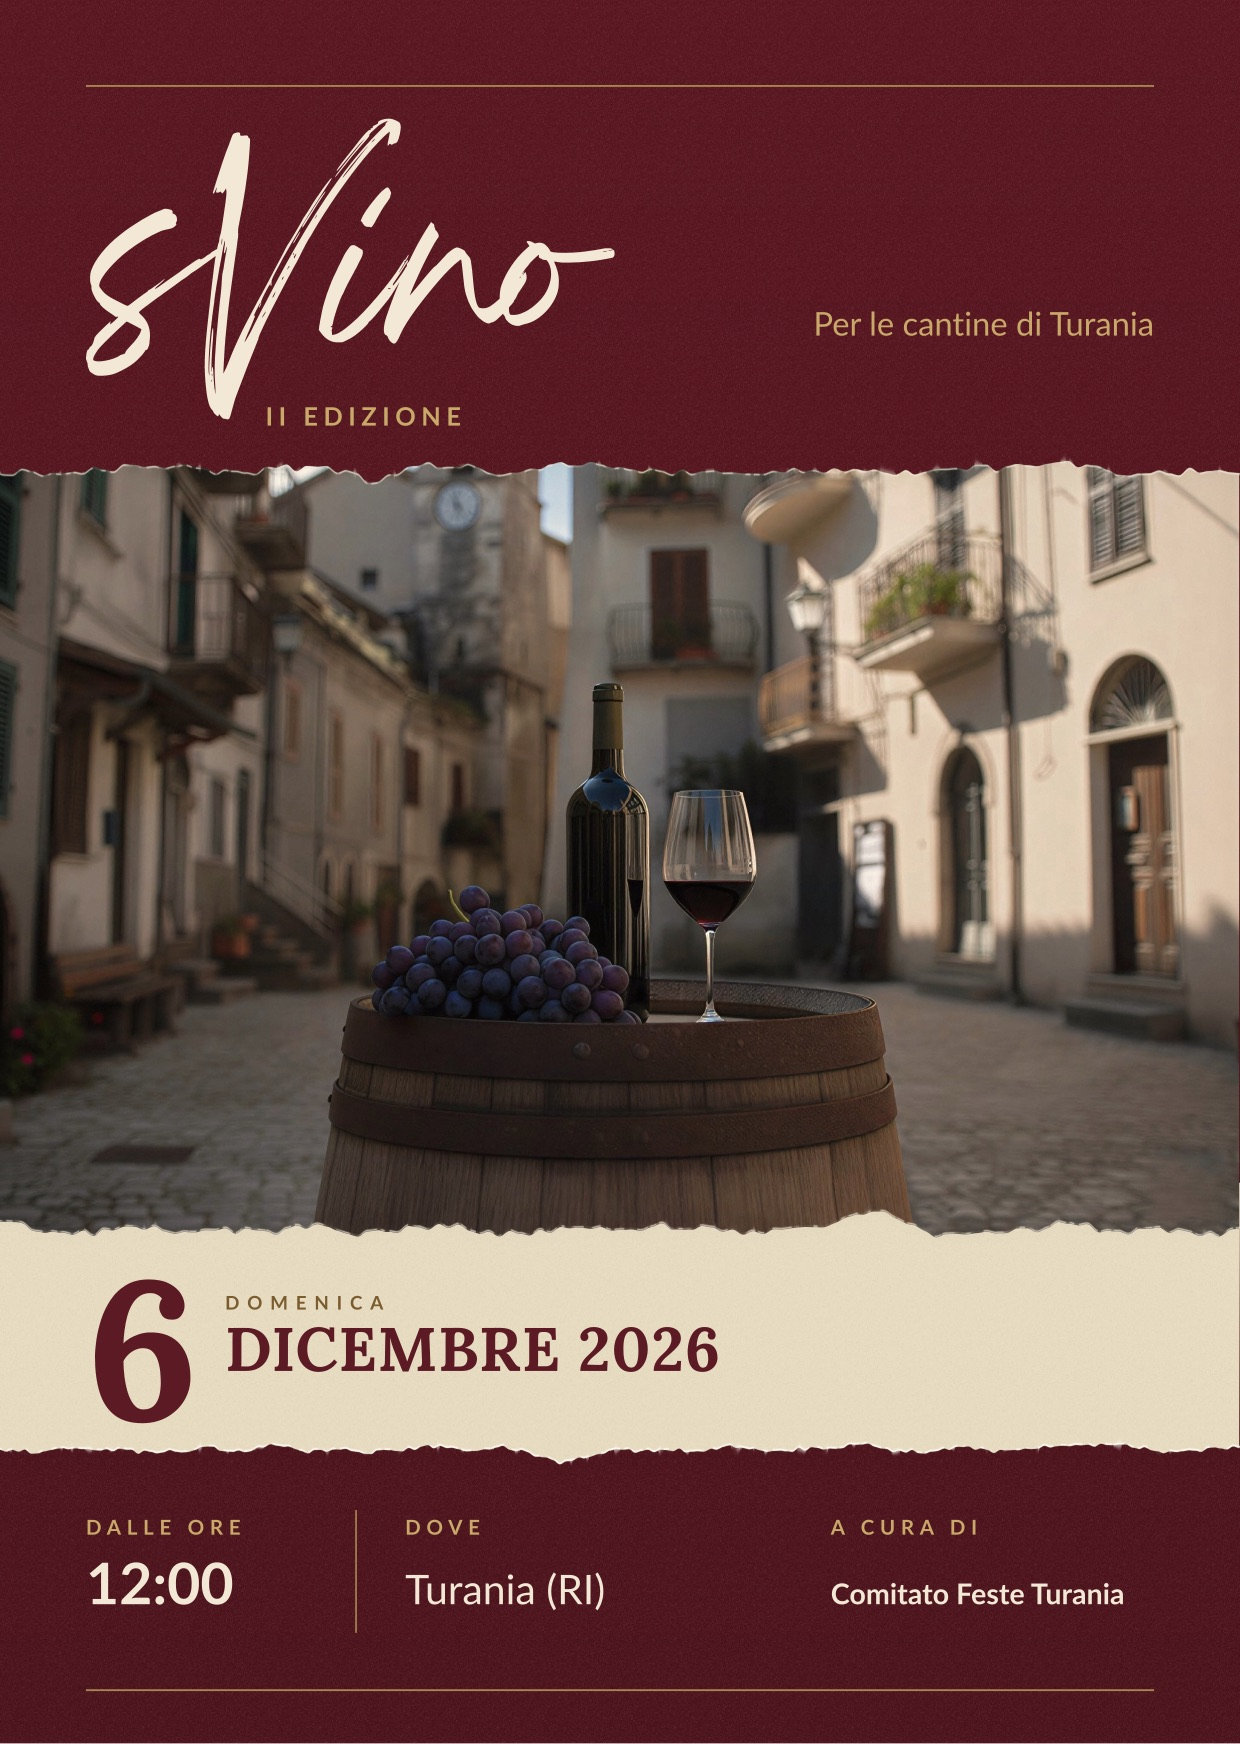
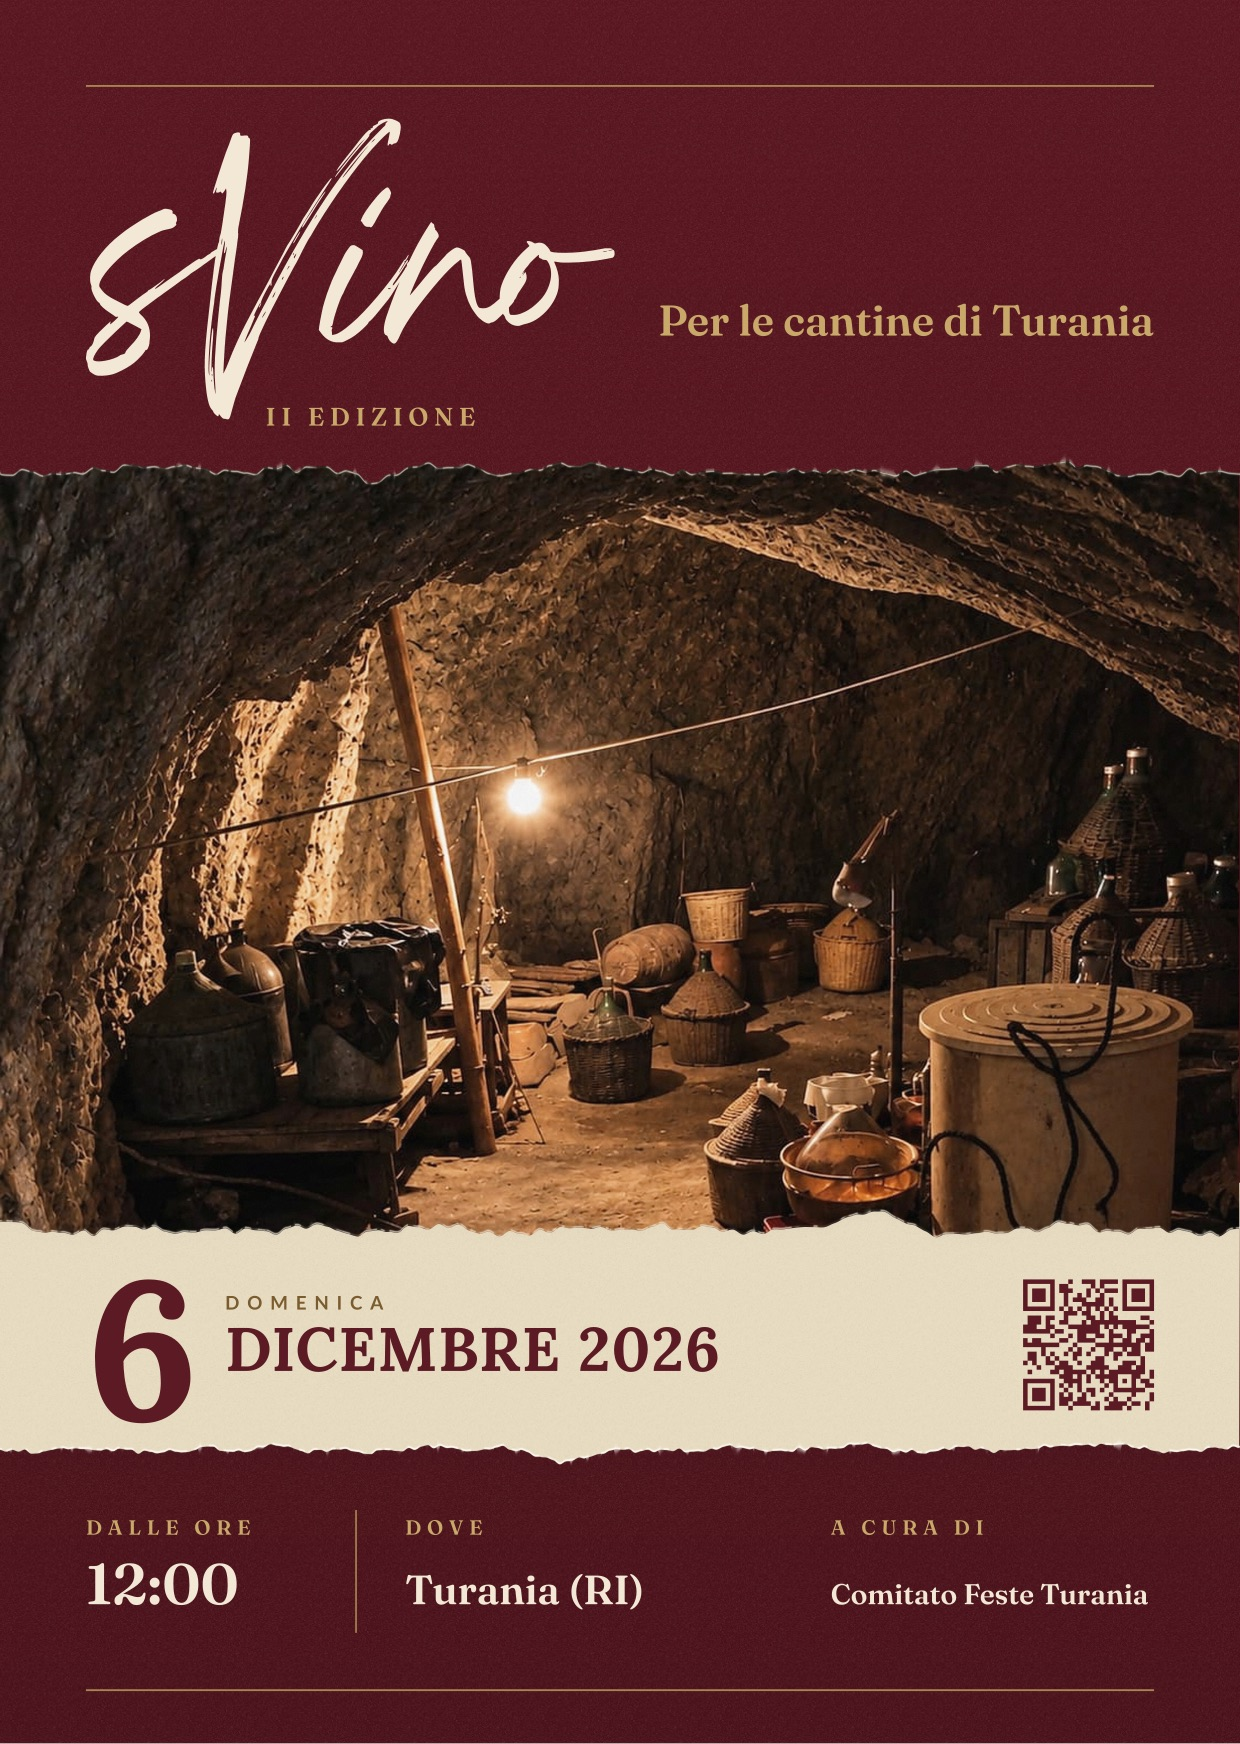
content: bring the page onto the v15 Locandina
Replace the borgo still life with the cantina photograph the v15 print
master carries: regenerate the four derivatives from the 2244 × 1415
crop, rename them svino-cantina-*, and update the approved alt sentence.

Refresh the square social preview and the downloadable Locandina from the
same v15 sources; the download now carries the QR, as the print does.
Document the v15 master, the exact resize sizes and both recipes.

diff --git a/index.html b/index.html
@@ -110,17 +110,17 @@
             <div class="photo-frame">
               <picture>
               <source
-                srcset="/assets/img/svino-borgo-1200.webp 1200w, /assets/img/svino-borgo-2048.webp 2048w"
+                srcset="/assets/img/svino-cantina-1200.webp 1200w, /assets/img/svino-cantina-2048.webp 2048w"
                 sizes="(min-width: 46rem) 39.5rem, calc(100vw - 4.5rem)"
                 type="image/webp"
               >
               <img
-                src="/assets/img/svino-borgo-1200.jpg"
-                srcset="/assets/img/svino-borgo-1200.jpg 1200w, /assets/img/svino-borgo-2048.jpg 2048w"
+                src="/assets/img/svino-cantina-1200.jpg"
+                srcset="/assets/img/svino-cantina-1200.jpg 1200w, /assets/img/svino-cantina-2048.jpg 2048w"
                 sizes="(min-width: 46rem) 39.5rem, calc(100vw - 4.5rem)"
                 width="1200"
                 height="756"
-                alt="Strada acciottolata di un borgo italiano, con case in pietra e intonaco chiaro, balconi, persiane e una torre con orologio sullo sfondo; in primo piano, su una botte di legno, un grappolo d&#39;uva nera, una bottiglia di vino scuro e un calice di vino rosso."
+                alt="Interno di una cantina scavata nella roccia: soffitto e pareti di pietra grezza, una lampadina nuda appesa a un filo, damigiane di vetro anche dentro cesti di vimini, una botte coricata e un grande tino chiaro con il coperchio; un palo di legno regge la volta."
                 decoding="async"
               >
           </picture>

diff --git a/README.md b/README.md
@@ -6,11 +6,10 @@ repository `svino-turania/svino-turania.github.io`.
 
 Status: the page carries the Locandina's facts, the Cantina prose and
 the map link. The identity (palette and type), the label composition, the
-outlined signature with the `II EDIZIONE` lockup, the Borgo photograph with its
-torn lower edge, the Open
-Graph and Twitter metadata, the square social preview, the Locandina
-download, the print-derived motion and the accessibility work are all in
-place. The rules below describe the system that work preserves.
+outlined signature with the `II EDIZIONE` lockup, the Cantina photograph with
+its torn lower edge, the Open Graph and Twitter metadata, the square social
+preview, the Locandina download, the print-derived motion and the accessibility
+work are all in place. The rules below describe the system that work preserves.
 
 ## The site is the files it is
 
@@ -129,7 +128,7 @@ a short comment beside it in the file:
 | Organiser             | `Comitato Feste Turania`       | the `A CURA DI` value                                         |
 | Subtitle              | `Per le cantine di Turania`    | under the signature                                           |
 | Edition               | `II EDIZIONE`                  | the lockup beside the signature, the colophon and the metadata |
-| Photograph description| the approved Italian sentence  | the `alt` attribute of the Borgo photograph                   |
+| Photograph description| the approved Italian sentence  | the `alt` attribute of the Cantina photograph                 |
 | Locandina download    | `assets/download/locandina-svino-ii-edizione.jpg` | the facts link on desktop, the footer link on phone and tablet |
 
 The date is the one value the page states in several forms. Change
@@ -271,9 +270,9 @@ is the one exception delivered as a path.
 ## Derived assets and the print master
 
 The print workspace at `/Users/angelo/svino` remains the source of truth for
-the identity: `Svino_A3_master_v11.svg` and the accompanying v11 print and
-social files define the palette, type, signature, photograph, tear profile and
-wording. The site derives from them, never the reverse.
+the identity: `SVINO_v15/sorgenti/Svino_A3_master_v15.svg` and the accompanying
+v15 print and social files define the palette, type, signature, photograph,
+tear profile and wording. The site derives from them, never the reverse.
 
 Site assets under `assets/` are derivatives, regenerated from the master rather
 than edited independently. They are:
@@ -289,51 +288,66 @@ than edited independently. They are:
 ### The photograph
 
 The photograph derives from the print master's photograph crop,
-`/Users/angelo/svino/images/build/svino_a3.jpg`: 2048 × 1291, RGB, already
+`/Users/angelo/svino/images/build/svino_a3.jpg`: 2244 × 1415, RGB, already
 cropped to the approved framing. The site's 1200 × 756 copy is that same crop
 scaled — the two differ only by resampling, so the framing cannot drift between
-them. `images/svino.jpg` (2048 × 1359) is the photograph before the print crop;
-do not use it for the site, or the edges will disagree with the poster.
+them. `images/cantina-marcello.jpeg` (1122 × 1402) is the source photograph;
+`prepare_images.py` upscales it 2×, grades it and crops it to the A3 band.
+`images/svino.jpg` (2048 × 1359) is the previous edition's photograph before
+the print crop; do not use it for the site, or the edges will disagree with the
+poster.
 
-The page offers the crop at its native 2048 px width for laptop screens and the
-1200 px copy for narrow screens and slower connections, through `srcset` and a
-`sizes` value that describes the panel's measure — `(min-width: 46rem) 39.5rem,
+The page offers the crop at 2048 px for laptop screens and the 1200 px copy for
+narrow screens and slower connections, through `srcset` and a `sizes` value
+that describes the panel's measure — `(min-width: 46rem) 39.5rem,
 calc(100vw - 4.5rem)` — on the WebP source and on the JPEG fallback. It is not
 `100vw`: the photograph no longer spans the viewport, and a phone would
 otherwise fetch the 2048 px candidate for a 330 px slot. Never upscale: the wide
-candidate is the crop itself, not a larger render of the 1200 px copy.
+candidate is a downscale of the 2244 px crop, not a larger render of the
+1200 px copy.
 
 Regenerate all four files from the crop with:
 
 ```sh
 # 1200 px narrow copy: JPEG and WebP
-sips --resampleWidth 1200 /Users/angelo/svino/images/build/svino_a3.jpg \
-  --out assets/img/svino-borgo-1200.jpg
+sips -z 756 1200 /Users/angelo/svino/images/build/svino_a3.jpg \
+  --out assets/img/svino-cantina-1200.jpg
 cwebp -q 78 -resize 1200 756 /Users/angelo/svino/images/build/svino_a3.jpg \
-  -o assets/img/svino-borgo-1200.webp
+  -o assets/img/svino-cantina-1200.webp
 
 # 2048 px wide candidate: JPEG and WebP
 magick /Users/angelo/svino/images/build/svino_a3.jpg \
-  -strip -sampling-factor 2x2,1x1,1x1 -quality 93 \
-  assets/img/svino-borgo-2048.jpg
-cwebp -q 78 /Users/angelo/svino/images/build/svino_a3.jpg \
-  -o assets/img/svino-borgo-2048.webp
+  -resize 2048x1291! -strip -sampling-factor 2x2,1x1,1x1 -quality 93 \
+  assets/img/svino-cantina-2048.jpg
+cwebp -q 78 -resize 2048 1291 /Users/angelo/svino/images/build/svino_a3.jpg \
+  -o assets/img/svino-cantina-2048.webp
 ```
 
-Keep both variants RGB — never CMYK — and keep the two widths in step: they are
-the same crop, and the `<img>` keeps the approved 1200 × 756 intrinsic size. The
-1200 px JPEG stays the `<img>` fallback for browsers that read no `srcset`.
+The explicit sizes matter: the source is 2244 × 1415, so a bare
+`--resampleWidth 1200` would round to 757 px tall and break the `<img>`
+intrinsic 1200 × 756. Keep both variants RGB — never CMYK — and keep the two
+widths in step: they are the same crop. The 1200 px JPEG stays the `<img>`
+fallback for browsers that read no `srcset`.
 
-The printable Locandina and the downloadable copy must never disagree. When a
-print master carries the QR code (a future v12), regenerate the download from
-that same master — not from an earlier one — so the poster on paper and the
-poster on the page are the same object.
+### The square social preview
+
+`assets/img/svino-quadrato-og.jpg` is a 1080 × 1080 RGB JPEG converted from
+`SVINO_v15/Svino_quadrato_1080x1080_v15.png` with `sips -s format jpeg
+-s formatOptions 60`. Regenerate it from the current square master, never from
+an earlier one, so the preview shows the same photograph as the page.
+
+### The downloadable Locandina
+
+The printable Locandina and the downloadable copy must never disagree. The v15
+master carries the QR code, so the download comes from that same master — not
+from an earlier one — and the poster on paper and the poster on the page are
+the same object.
 
 The downloadable copy is `assets/download/locandina-svino-ii-edizione.jpg`:
-a 1240 × 1744 RGB JPEG rendered from `Svino_A3_master_v11.svg` with
-`rsvg-convert -w 1240`, then converted with `sips` at JPEG quality 78. Regenerate
-it with the same recipe from the QR-bearing master once v12 exists; never edit
-the JPEG independently of the master it derives from.
+a 1240 × 1744 RGB JPEG rendered from
+`SVINO_v15/sorgenti/Svino_A3_master_v15.svg` with `rsvg-convert -w 1240`, then
+converted with `sips` at JPEG quality 78. Never edit the JPEG independently of
+the master it derives from.
 
 ### Icons for the tab and home screen
 
